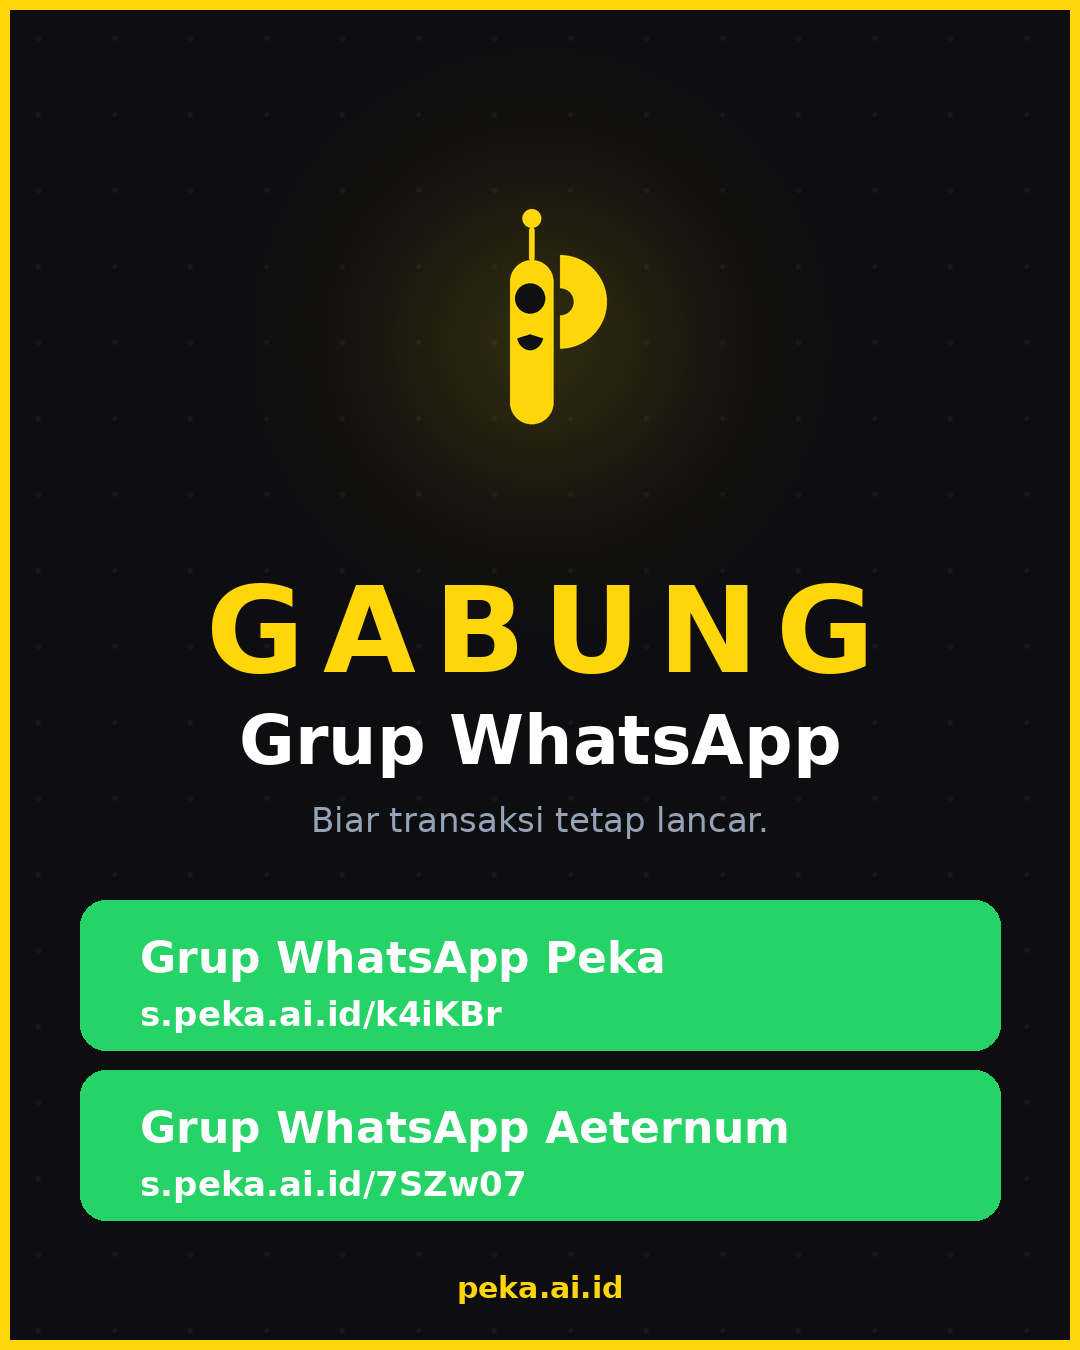
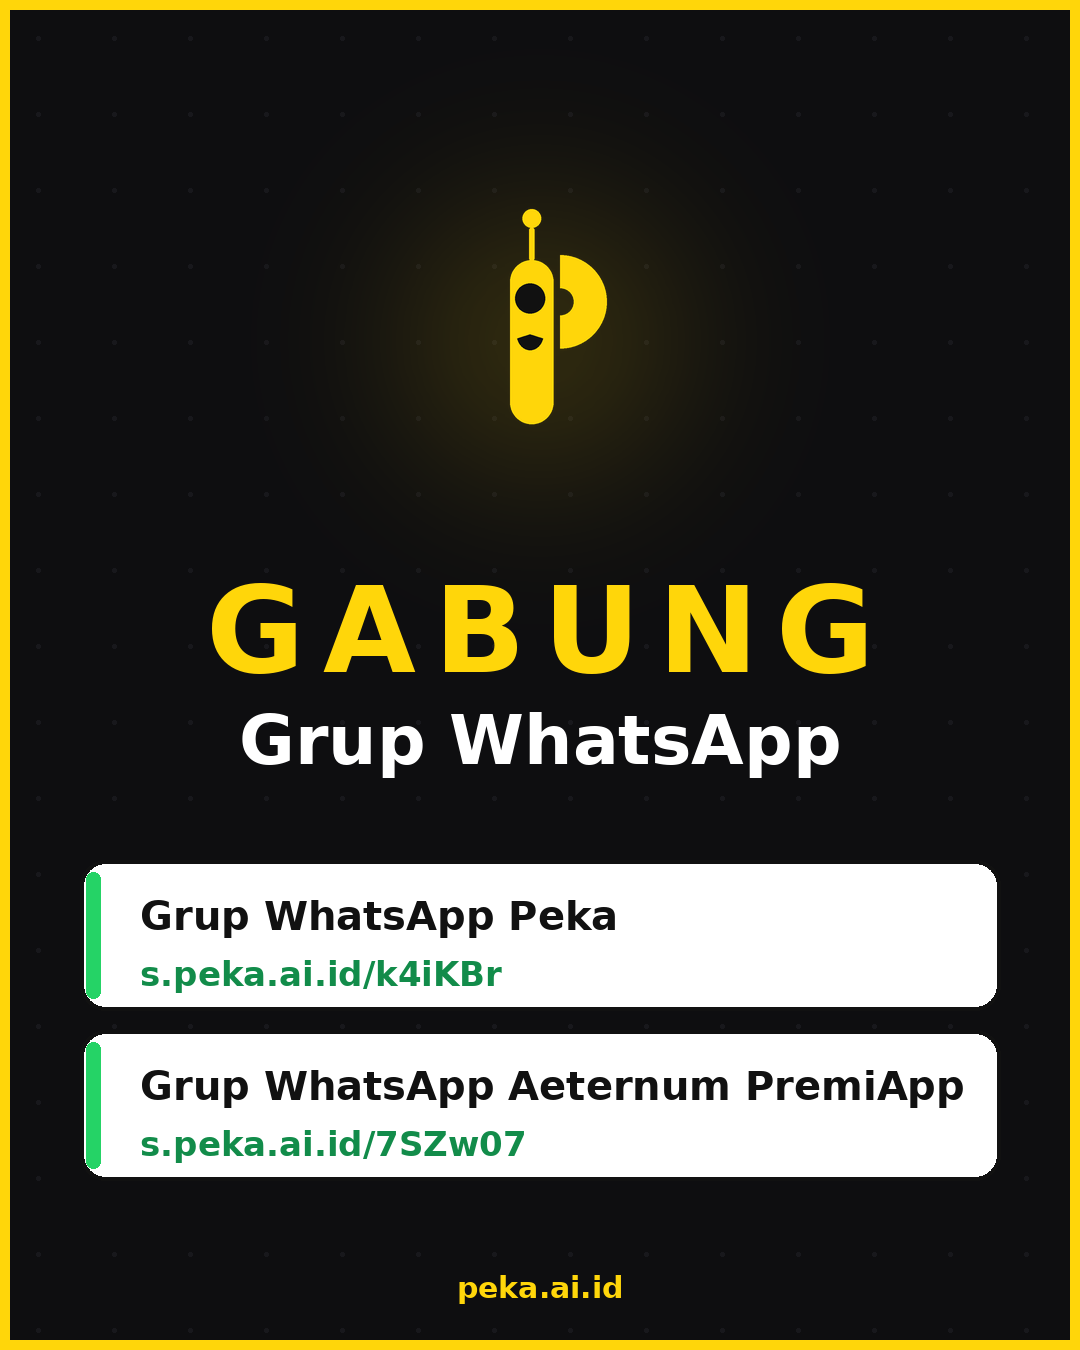
Auto sync 2026-11-19 07:52

Changed region(s): [[0.0611, 0.5911, 0.9472, 0.9022]]

diff --git a/wa-backup/build_card.py b/wa-backup/build_card.py
@@ -17,6 +17,8 @@ WHITE = (255, 255, 255)
 YELLOW = (255, 214, 10)
 GREY = (148, 163, 184)
 GREEN = (37, 211, 102)
+GREEN_DARK = (18, 140, 74)
+INK = (17, 17, 17)
 
 def font(name, size):
     return ImageFont.truetype(f"/usr/share/fonts/truetype/dejavu/{name}.ttf", size)
@@ -24,7 +26,7 @@ def font(name, size):
 F_BIG = font("DejaVuSans-Bold", 120)
 F_SUB = font("DejaVuSans-Bold", 68)
 F_BODY = font("DejaVuSans", 34)
-F_CARD_T = font("DejaVuSans-Bold", 44)
+F_CARD_T = font("DejaVuSans-Bold", 40)
 F_CARD_L = font("DejaVuSans-Bold", 34)
 F_FOOT = font("DejaVuSans-Bold", 30)
 
@@ -72,18 +74,19 @@ d = ImageDraw.Draw(img)
 # title + one line
 tracked_center(560, "GABUNG", F_BIG, YELLOW, tracking=18)
 text_center(700, "Grup WhatsApp", F_SUB, WHITE)
-text_center(800, "Biar transaksi tetap lancar.", F_BODY, GREY)
 
-# two green cards, text only
+# two cards: white with black border (Peka link-hub style), dark title, green link
 def card(y0, h, title, link):
     x0, x1 = 80, 1000
-    d.rounded_rectangle([x0, y0, x1, y0 + h], radius=26, fill=GREEN)
+    d.rounded_rectangle([x0, y0, x1, y0 + h], radius=26, fill=WHITE,
+                        outline=INK, width=4)
+    d.rounded_rectangle([x0 + 6, y0 + 12, x0 + 20, y0 + h - 12], radius=7, fill=GREEN)
     tx = x0 + 60
-    d.text((tx, y0 + 32), title, font=F_CARD_T, fill=WHITE)
-    d.text((tx, y0 + 94), link, font=F_CARD_L, fill=WHITE)
+    d.text((tx, y0 + 32), title, font=F_CARD_T, fill=INK)
+    d.text((tx, y0 + 94), link, font=F_CARD_L, fill=GREEN_DARK)
 
-card(900, 150, "Grup WhatsApp Peka", "s.peka.ai.id/k4iKBr")
-card(1070, 150, "Grup WhatsApp Aeternum", "s.peka.ai.id/7SZw07")
+card(860, 150, "Grup WhatsApp Peka", "s.peka.ai.id/k4iKBr")
+card(1030, 150, "Grup WhatsApp Aeternum PremiApp", "s.peka.ai.id/7SZw07")
 
 # footer
 text_center(1270, "peka.ai.id", F_FOOT, YELLOW)
